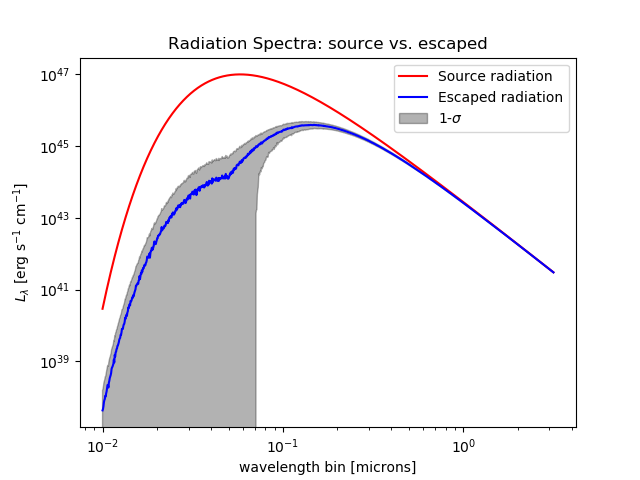
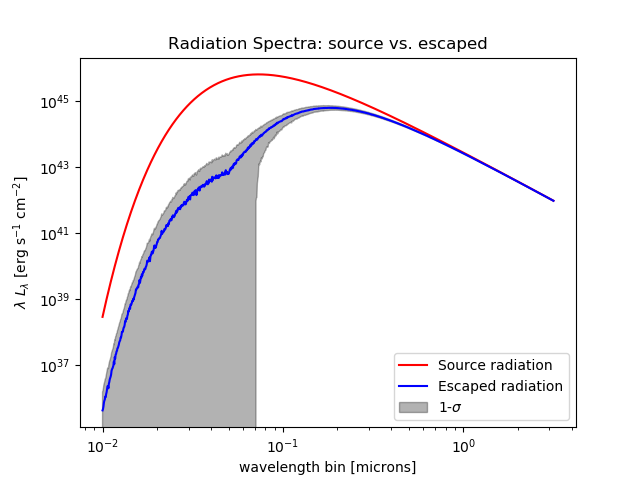
changed unit text to cm^-2 and made as lambda * L_lambda to match

diff --git a/sim.py b/sim.py
@@ -171,6 +171,8 @@ def main():
     plt.xscale('log')
     plt.xlabel("wavelength bin [microns]")
     plt.ylabel(r"$\lambda$ $L_\lambda$ [erg s${}^{-1}$ cm${}^{-2}$]")
+
+    plt.savefig("spectrum_1.png")
     plt.show()
 
 
